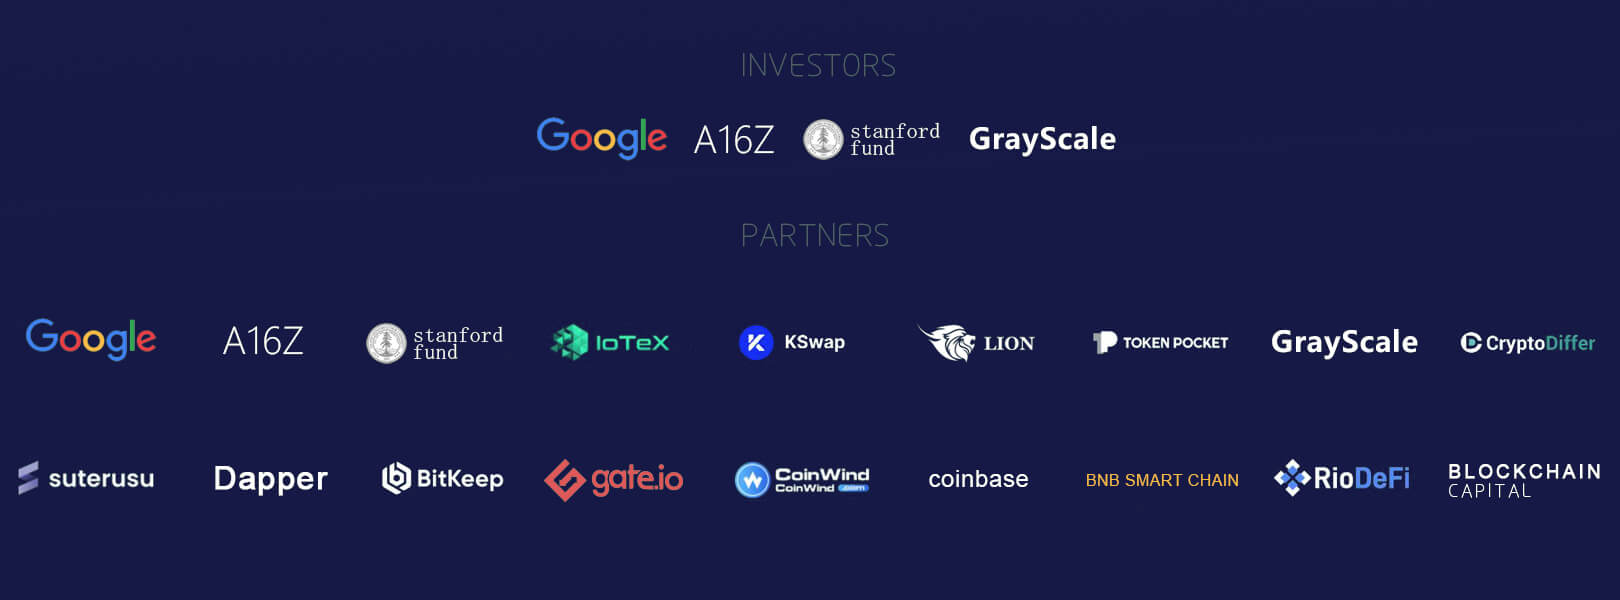
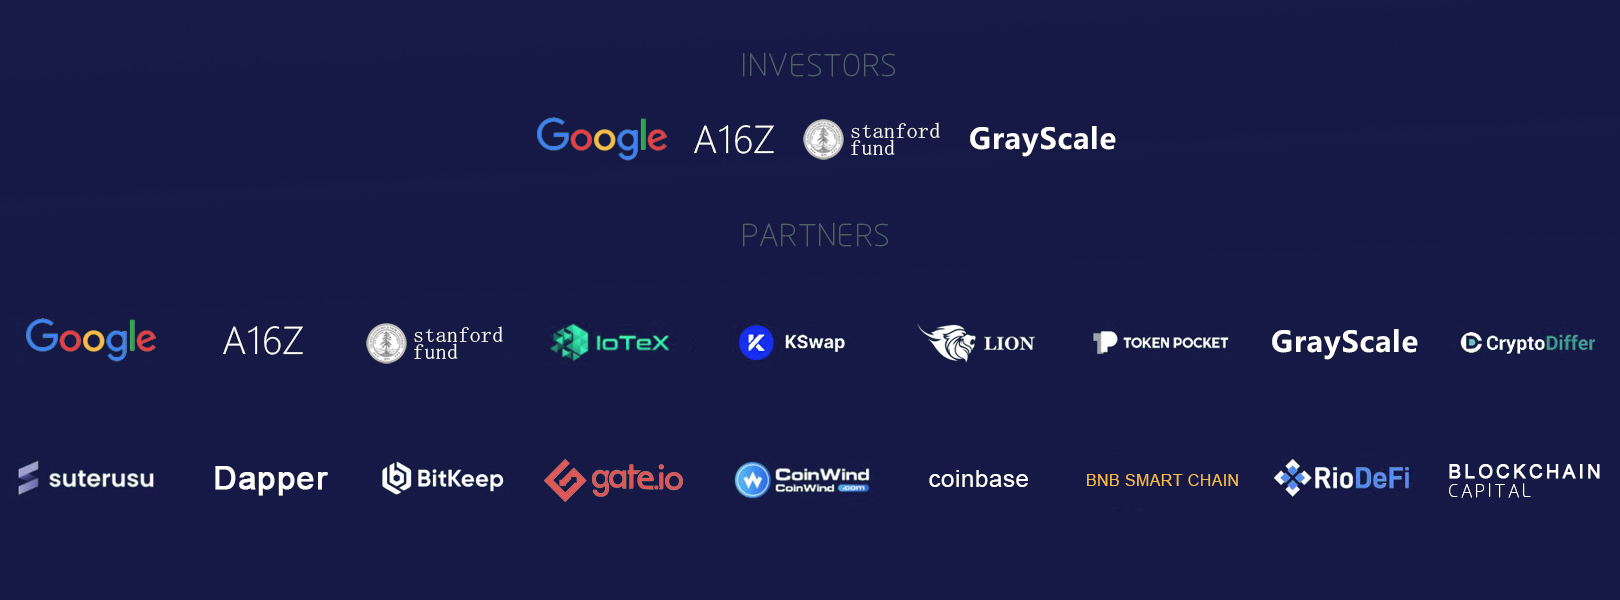
update partner images

diff --git a/assets/css/common.css b/assets/css/common.css
@@ -15,10 +15,6 @@
 .navbar-nav li.nav-item-active {
   border-bottom: 1px solid #50b5ff;
 }
-.partner-divider {
-  width: 100%;
-  box-shadow: 0 0 5px 10px #07183c;
-}
 .partner-row img {
   width: 100%;
   object-fit: contain;

diff --git a/dao-general.html b/dao-general.html
@@ -271,8 +271,6 @@
     </div>
 </section>
 
-<div class="partner-divider"></div>
-
 <!-- Partner -->
 <section class="row partner-row">
     <div class="col-lg-12 col-sm-12 mb-lg-0 d-flex justify-content-between">

diff --git a/index.html b/index.html
@@ -317,8 +317,6 @@
     </div>
 </section>
 
-<div class="partner-divider"></div>
-
 <!-- Partner -->
 <section class="row partner-row">
     <div class="col-lg-12 col-sm-12 mb-lg-0 d-flex justify-content-between">

diff --git a/assets/css/common.less b/assets/css/common.less
@@ -31,11 +31,6 @@
   }
 }
 
-.partner-divider {
-  width: 100%;
-  box-shadow: 0 0 5px 10px #07183c;
-}
-
 .partner-row {
   img {
     width: 100%;
